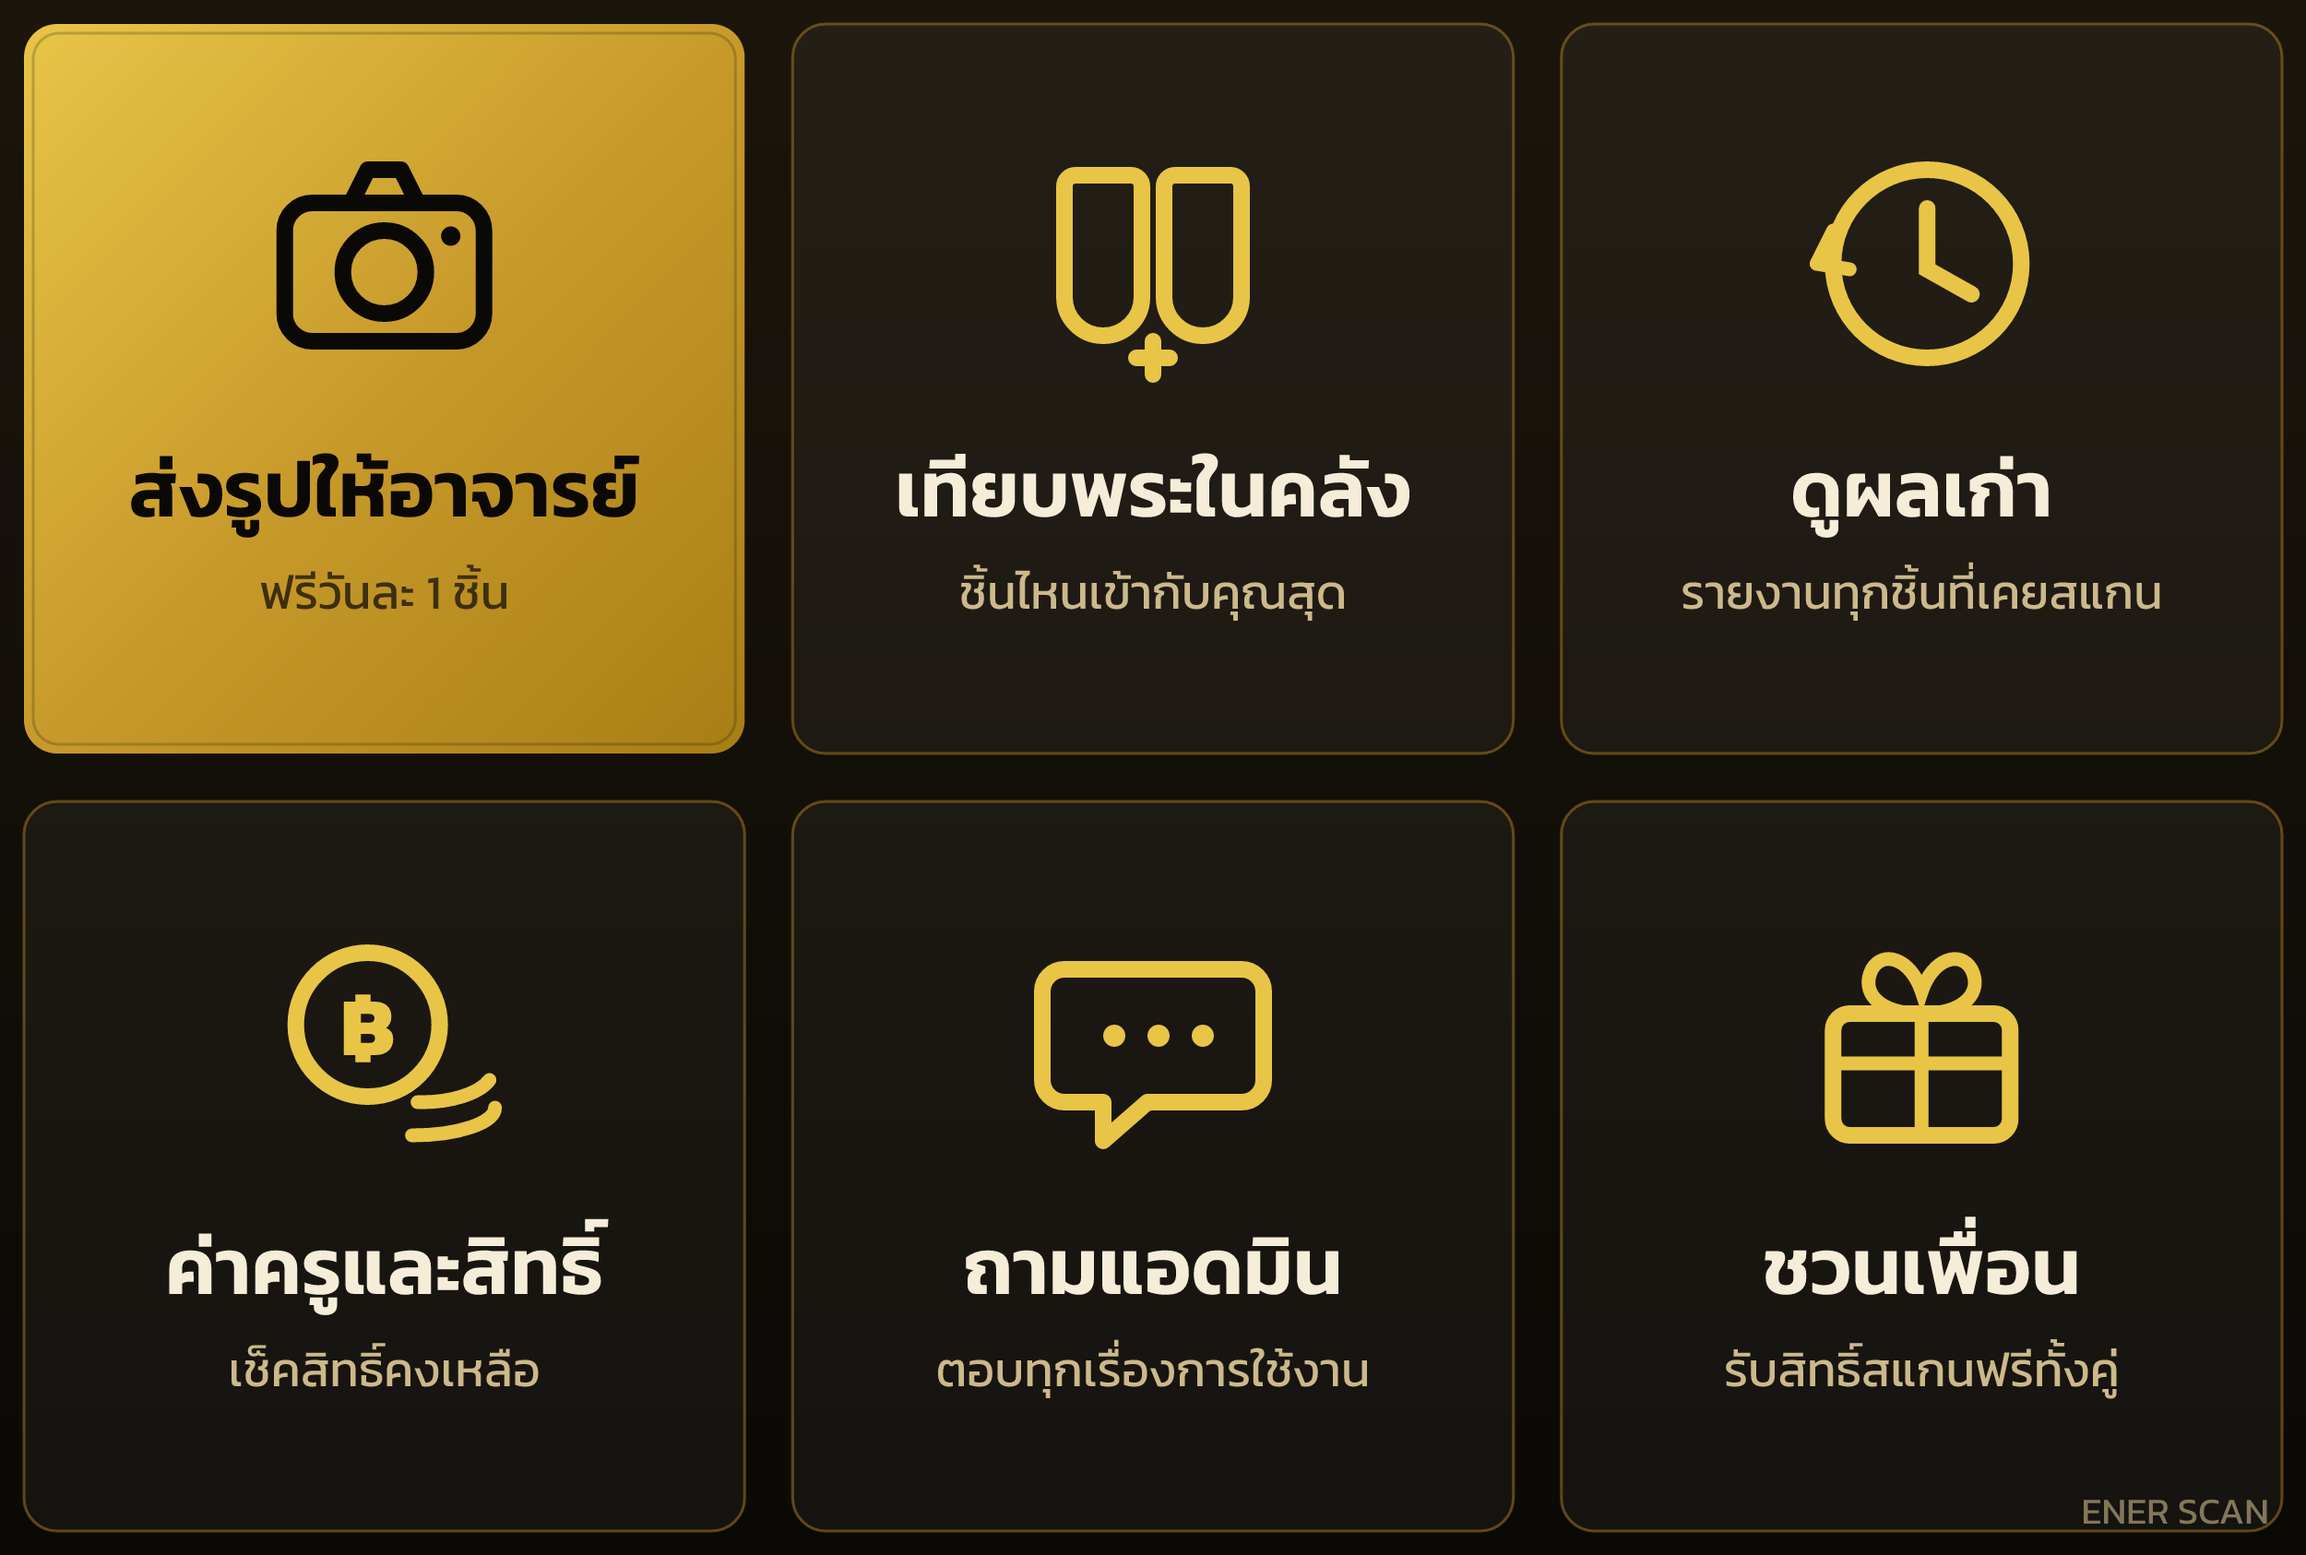
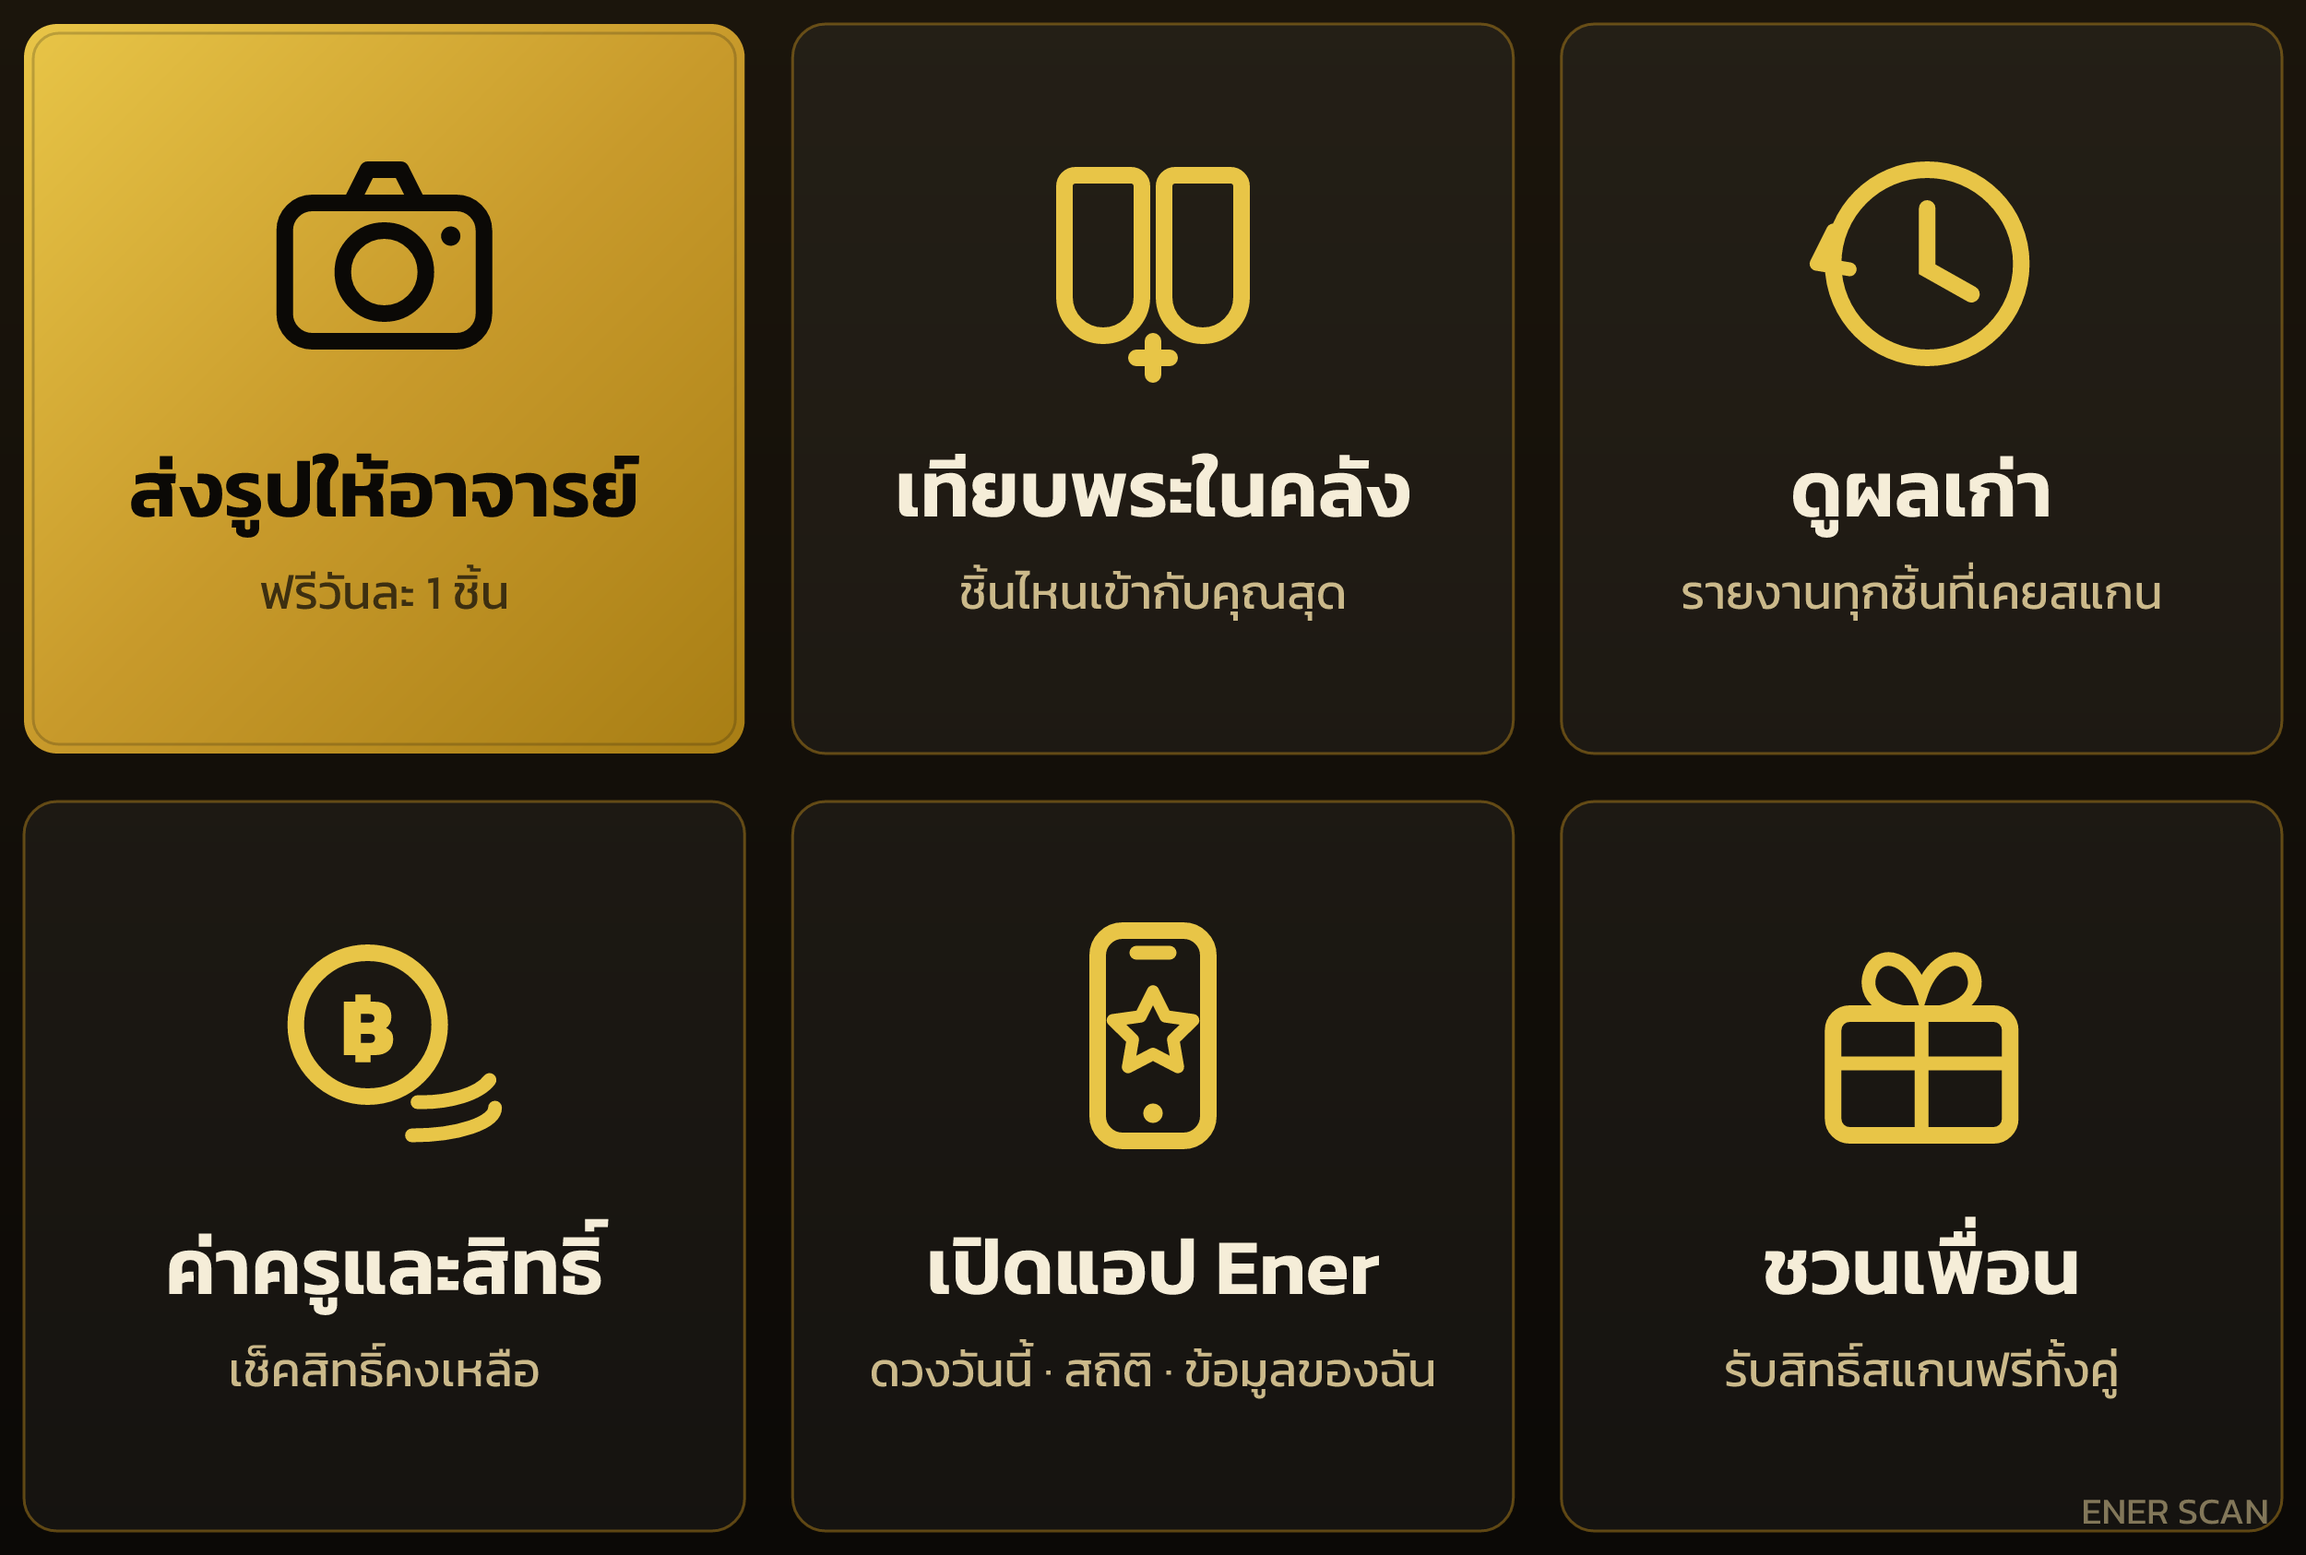
fix(codex r3): sanitizer longest-first + whole-clause + quality gate (exact-output tests) · richmenu ช่องเปิดแอป Ener (LIFF)

Changed region(s): [[0.4368, 0.586, 0.5616, 0.7402], [0.4056, 0.7711, 0.5928, 0.8327], [0.3744, 0.8636, 0.624, 0.8944]]

diff --git a/src/core/conversation/personaRole.util.js b/src/core/conversation/personaRole.util.js
@@ -117,18 +117,27 @@ export function evaluateToneGuard(text) {
 }
 
 /**
- * Deterministic sanitizer (Codex 14 ส.ค. รอบ 2): ตัด/แทนเฉพาะวลีต้องห้าม
- * เก็บสาระที่เหลือไว้ — ใช้เมื่อ retry ยังหลุด ก่อนถอยไป neutral fallback
+ * Deterministic sanitizer (Codex 14 ส.ค. รอบ 3): ตัด/แทนเฉพาะวลีต้องห้าม เก็บสาระไว้
+ * กติกา: longest phrase first (กัน rule สั้นกินก่อนแล้วเหลือเศษ "ดีแล้ว") ·
+ * วลีอนาคต/ปลอบแทนทั้ง clause ถึงจบบรรทัด ห้ามใช้ character class ภาษาไทยตัดกลางคำ
  */
 const PRAISE_COMFORT_SANITIZE_RULES = [
-  // วลีมีบริบทตามหลัง (เดี๋ยวก็เจอชิ้นที่ใช่เอง ฯลฯ) → แทนด้วยขั้นถัดไปที่ทำได้จริง
-  [/เดี๋ยวก็เจอ[^\sครับค่ะนะ]{0,20}(?:เอง)?/g, "หากต้องการเทียบ ให้สแกนชิ้นอื่นเพิ่มเติม"],
-  [/ถือว่า(?:ดี|ใช้ได้)(?:มาก)?(?:แล้ว)?/g, "อยู่ตามระดับที่ตัวเลขระบุ"],
-  // วลีตัดทิ้งได้เลย (รวมคำลงท้ายที่เกาะมาด้วย กันเศษ "ครับ" ลอย)
-  [/(?:แบบนี้)?(?:ก็)?ใช้ได้ดีแล้ว(?:นะ)?(?:ครับ|ค่ะ)?/g, ""],
+  // กลุ่มชมคะแนน — เรียงยาว→สั้น แทนด้วยการอ่านตำแหน่งแบบเป็นกลาง
+  [/แบบนี้ก็ถือว่าใช้ได้ดีแล้ว/g, "อยู่ตามตำแหน่งที่รายงานระบุ"],
+  [/ถือว่าใช้ได้ดีแล้ว/g, "อยู่ตามตำแหน่งที่รายงานระบุ"],
+  [/แบบนี้ก็ใช้ได้ดีแล้ว/g, "อยู่ตามตำแหน่งที่รายงานระบุ"],
+  [/ก็ใช้ได้ดีแล้ว/g, "อยู่ตามตำแหน่งที่รายงานระบุ"],
+  [/ใช้ได้ดีแล้ว/g, "อยู่ตามตำแหน่งที่รายงานระบุ"],
+  [/ถือว่า(?:ดีมาก|ใช้ได้|ดี)(?:แล้ว)?/g, "อยู่ตามตำแหน่งที่รายงานระบุ"],
+  // ปลอบอนาคต — กลืนทั้ง clause ถึงจบบรรทัด แทนด้วยขั้นถัดไปที่ทำได้จริง
+  [/เดี๋ยวก็เจอ[^\n]*/g, "หากต้องการเทียบให้ชัด ให้สแกนชิ้นต่างสายเพิ่มเติมครับ"],
+  // วลีปลอบตัดทิ้ง (รวมคำลงท้ายที่เกาะมา กันเศษ "ครับ" ลอย)
   [/ไม่ต้องกังวล(?:ไป|นะ)?(?:ครับ|ค่ะ)?/g, ""],
   [/สบายใจได้(?:เลย|นะ)?(?:ครับ|ค่ะ)?/g, ""],
 ];
+
+/** เศษภาษาพัง/ความหมายชมที่หลงเหลือ = sanitize ไม่ผ่าน (Codex รอบ 3) */
+const SANITIZE_LEFTOVER_RE = /ดีแล้ว|นที่ใช่เอง|ครับครับ|ค่ะค่ะ|ระบุระบุ/;
 
 /** @param {string} text */
 export function sanitizePraiseComfort(text) {
@@ -140,6 +149,24 @@ export function sanitizePraiseComfort(text) {
     .replace(/ +([\n.!?])/g, "$1")
     .replace(/\n{3,}/g, "\n\n")
     .trim();
+}
+
+/**
+ * Post-sanitize quality gate: ประโยคต้องอ่านรู้เรื่อง + สาระจากต้นฉบับยังอยู่
+ * ไม่ผ่านข้อใดข้อหนึ่ง = ไปใช้ neutral fallback แทน (fail-closed)
+ * @param {string} sanitized
+ * @param {string} original
+ */
+export function sanitizedOutputQualityOk(sanitized, original) {
+  const s = String(sanitized || "").trim();
+  const o = String(original || "");
+  if (s.length < 10) return false;
+  // สาระต้องเหลือพอ ไม่ใช่โดนตัดจนกลวง
+  if (s.length < Math.min(30, Math.floor(o.length * 0.4))) return false;
+  if (SANITIZE_LEFTOVER_RE.test(s)) return false;
+  // ลงท้ายต้องเป็นตัวอักษรไทย/ตัวเลข/วรรคตอนปกติ ไม่จบด้วยอักขระค้าง
+  if (!/[ก-๙0-9a-zA-Z%.!?)]$/.test(s)) return false;
+  return true;
 }
 
 /**
@@ -155,7 +182,7 @@ export function resolveToneGuardedText({ original, retry, moneyCtx = {} }) {
   }
   const sanitized = sanitizePraiseComfort(original);
   if (
-    sanitized.length >= 10 &&
+    sanitizedOutputQualityOk(sanitized, original) &&
     evaluateToneGuard(sanitized).ok &&
     evaluateMoneyGuard(sanitized, moneyCtx).ok
   ) {

diff --git a/docs/ai/LOG.md b/docs/ai/LOG.md
@@ -635,3 +635,8 @@
 - delivery honesty: runExactUtilityCommandTerminal รับ pushUnavailable+onDeliveryFailure — sender คืน boolean ตามจริง (sent/suppressed/exactDuplicate นับว่าถึงมือ) · reply ล้ม→push fallback ครั้งเดียว→ล้มทั้งคู่ log EXACT_UTILITY_UNAVAILABLE_DELIVERY_FAILED + Telegram alert · ทุกกรณียัง terminal
 - invariant tests ใหม่ (lineWebhookRouting.invariant.test.js): reg gate ก่อน exact utility · exact utility ก่อน orchestrator/payment ตัวแรก · single owner (referral/synergy call site เดียว) · terminal block มี reply+push+alert ครบ
 - เทสต์แตะ 3 ไฟล์ 23/23 ผ่าน · baseline ไม่มี fail ใหม่ (970 pass)
+
+## 2026-08-14 | Claude | Sanitizer รอบ 3 (Codex) + rich menu ช่อง LIFF (staging)
+- sanitizer แก้ตามหลักฐาน Codex: longest-first (แบบนี้ก็ถือว่าใช้ได้ดีแล้ว → ... → ถือว่าดี) กันเศษ "ดีแล้ว" · clause อนาคต /เดี๋ยวก็เจอ[^\n]*/ กลืนถึงจบบรรทัด เลิก character class ไทยที่ตัดกลางคำ · sanitizedOutputQualityOk: ห้ามเศษ (ดีแล้ว/นที่ใช่เอง/ครับครับ) + ยาวพอ (≥40% หรือ ≥30) + ลงท้ายอักขระปกติ + tone/money ซ้ำ — ไม่ผ่าน = neutral fallback
+- เทสต์ล็อก exact output เคสจริงทั้งสอง: "ครับ คะแนน 7.5 กับ 87% อยู่ตามตำแหน่งที่รายงานระบุครับ" / "ครับ หาคนละสายไปเรื่อย ๆ หากต้องการเทียบให้ชัด ให้สแกนชิ้นต่างสายเพิ่มเติมครับ" + quality gate ปฏิเสธ output พังที่ Codex เจอ · baseline 971 ผ่าน
+- rich menu (กบ+Codex เคาะ): ถามแอดมิน → "เปิดแอป Ener / ดวงวันนี้ · สถิติ · ข้อมูลของฉัน" ไอคอนมือถือ+ดาว action URI liff.line.me/2010609313-8Bv87fz5 (staging LIFF) — เมนูใหม่ richmenu-939d8a52... ตั้ง default บน staging OA แล้ว · ค้าง: กบเทสต์ LIFF เปิดถูกบัญชี + 6 ปุ่มก่อนคุยเรื่อง pro (pro ใช้ LIFF_ID คนละตัว 2010679581)
